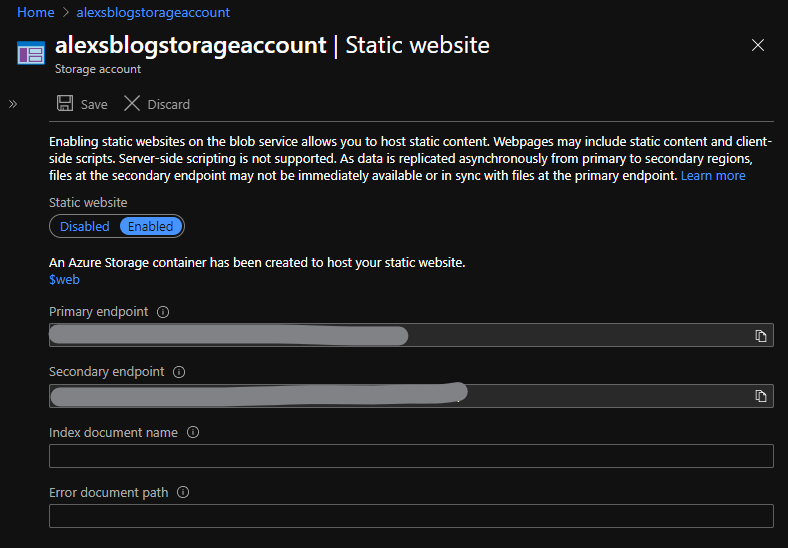
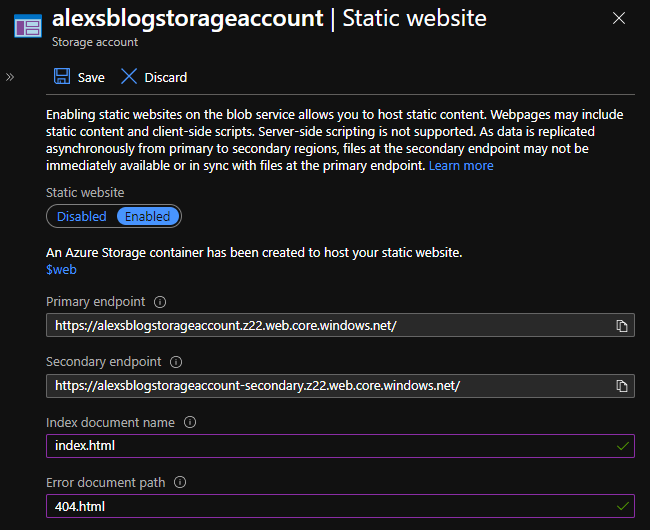
Add missing default page info

diff --git a/_drafts/2020-05-06-creating-my-static-blog-site.md b/_drafts/2020-05-06-creating-my-static-blog-site.md
@@ -14,7 +14,7 @@ I started with a few requirements:
 
 - Static site generator - I wanted to use a static site generator for its simplicity and speed benefits.
 - Custom domain - Use the domain I purchased: `alexoswald.com`
-- Fast & secure - It needs to be fast & secure. Load times under 500ms would be nice.
+- Fast & secure - It needs to be fast & secure. Consistent load times under 750-1000ms would be nice.
 - Cheap, less than $50 per year - The domain is $20 a year from GoDaddy with privacy. That leaves $30 for hosting and security.
 
 I am a Microsoft fan and .NET fanatic so I will most always utilize their tools.
@@ -60,7 +60,13 @@ Create a resource group in Azure that will hold all of the blogs resources. In t
 ![create-storage-account](../assets/images/2020-05-06/create-storage-account.png)
 
 In the storage account, go to **Static website**. Set the `Static website`
-option to `Enabled`. **Save** the change.
+option to `Enabled`.
+
+Set **Index document name** to `index.html` (generated by Jekyll).
+
+Set **Error document path** to `404.html` (generated by Jekyll).
+
+**Save** the change.
 
 ![storage-static-website](../assets/images/2020-05-06/storage-static-website.png)
 
@@ -221,11 +227,9 @@ Under *Stage 1*, click **1 job, 0 task**.
 
 ### Add tasks
 
-We have two new tasks to add, but first we want to update our agent.
+We have two new tasks to add.
 
-1. Click **Agent job**. Under **Agent Specification** pick the latest ubuntu, in this case `ubuntu-20.04`.
-
-2. The first task is to Sync the files in the Artifact with your static website container in the Azure Storage account specified. Click the **+** to add a new task.
+1. The first task is to Sync the files in the Artifact with your static website container in the Azure Storage account specified. Click the **+** to add a new task.
 
 ![create-release-pipeline6](../assets/images/2020-05-06/create-release-pipeline6.png)
 
